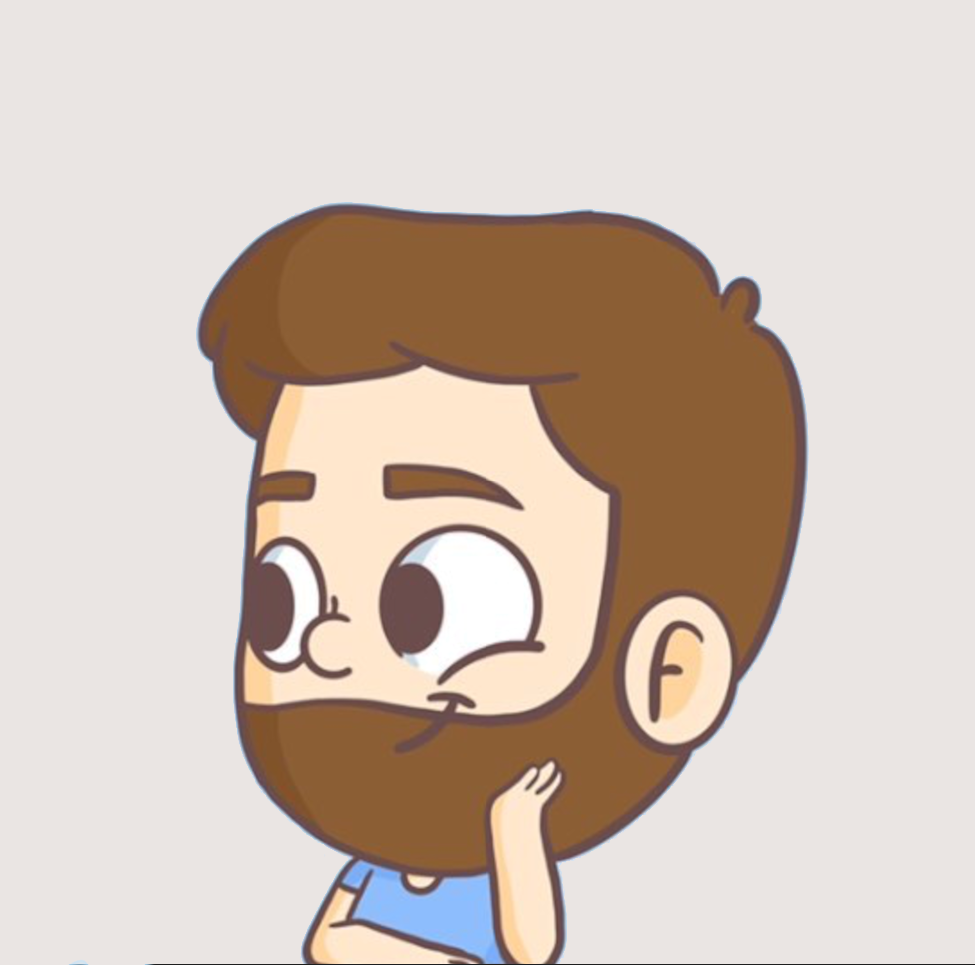
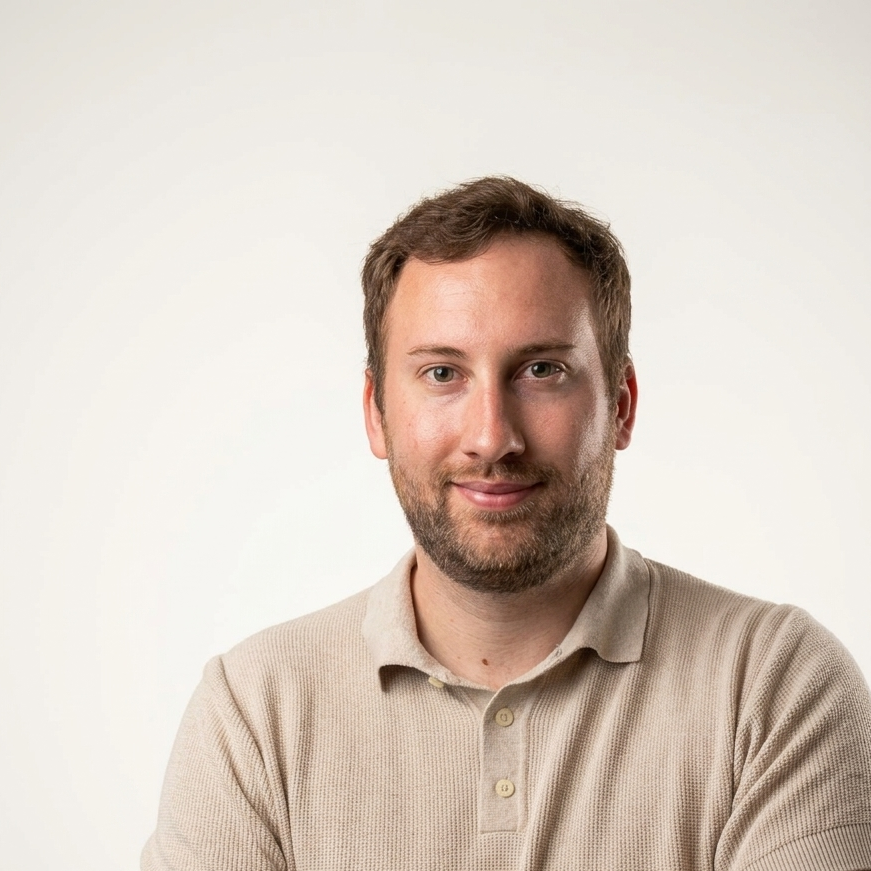
new profile pic

diff --git a/css/style.css b/css/style.css
@@ -44,15 +44,12 @@ img {
 }
 
 section[id] {
-  scroll-margin-top: 96px;
+  scroll-margin-top: 0;
 }
 
 .header {
   border-bottom: 1px solid rgba(255, 255, 255, 0.08);
   background: rgba(11, 18, 32, 0.95);
-  position: sticky;
-  top: 0;
-  z-index: 10;
 }
 
 .header-inner {
@@ -68,18 +65,81 @@ section[id] {
   gap: 16px;
 }
 
+.brand-avatar-link {
+  display: inline-block;
+  border-radius: 50%;
+  overflow: hidden;
+}
+
 .brand-avatar {
-  width: 50px;
-  height: 50px;
+  width: 96px;
+  height: 96px;
   border-radius: 50%;
   border: 1px solid rgba(255, 255, 255, 0.16);
-  transform: scaleX(-1);
+  object-fit: cover;
 }
 
 .brand-name {
   margin: 0;
   font-weight: 700;
   font-size: 1rem;
+}
+
+.image-modal {
+  position: fixed;
+  inset: 0;
+  display: none;
+  align-items: center;
+  justify-content: center;
+  background: rgba(11, 18, 32, 0.92);
+  padding: 24px;
+  z-index: 100;
+}
+
+.image-modal:target {
+  display: flex;
+}
+
+.image-modal-backdrop {
+  position: absolute;
+  inset: 0;
+}
+
+.image-modal-content {
+  position: relative;
+  max-width: min(640px, 100%);
+  max-height: min(90vh, 100%);
+  width: 100%;
+  border-radius: 24px;
+  overflow: hidden;
+  box-shadow: 0 30px 80px rgba(0, 0, 0, 0.4);
+}
+
+.image-modal-content img {
+  width: 100%;
+  height: auto;
+  display: block;
+}
+
+.image-modal-close {
+  position: absolute;
+  top: 16px;
+  right: 16px;
+  width: 38px;
+  height: 38px;
+  border-radius: 999px;
+  background: rgba(255, 255, 255, 0.12);
+  color: #fff;
+  display: inline-flex;
+  align-items: center;
+  justify-content: center;
+  text-decoration: none;
+  font-size: 1.2rem;
+  line-height: 1;
+}
+
+.image-modal-close:hover {
+  background: rgba(255, 255, 255, 0.2);
 }
 
 .brand-role {

diff --git a/index.html b/index.html
@@ -12,7 +12,9 @@
     <header class="header">
       <div class="section container header-inner">
         <div class="brand">
-          <img src="/images/profilepic.png" alt="Kevin De Vijlder" class="brand-avatar" />
+          <a href="#profile-pic-modal" class="brand-avatar-link" aria-label="Open profile picture">
+            <img src="/images/profilepic.png" alt="Kevin De Vijlder" class="brand-avatar" />
+          </a>
           <div>
             <p class="brand-name">Kevin De Vijlder | Owly</p>
             <p class="brand-role">Making cyberspace safer, one byte at a time</p>
@@ -53,6 +55,14 @@
           </div>
         </div>
       </section>
+
+      <div id="profile-pic-modal" class="image-modal" aria-hidden="true">
+        <a href="#" class="image-modal-backdrop" aria-label="Close profile picture"></a>
+        <div class="image-modal-content">
+          <img src="/images/profilepic.png" alt="Kevin De Vijlder profile picture large" />
+          <a href="#" class="image-modal-close" aria-label="Close">×</a>
+        </div>
+      </div>
 
       <section id="about" class="section container card">
         <div class="card-copy">